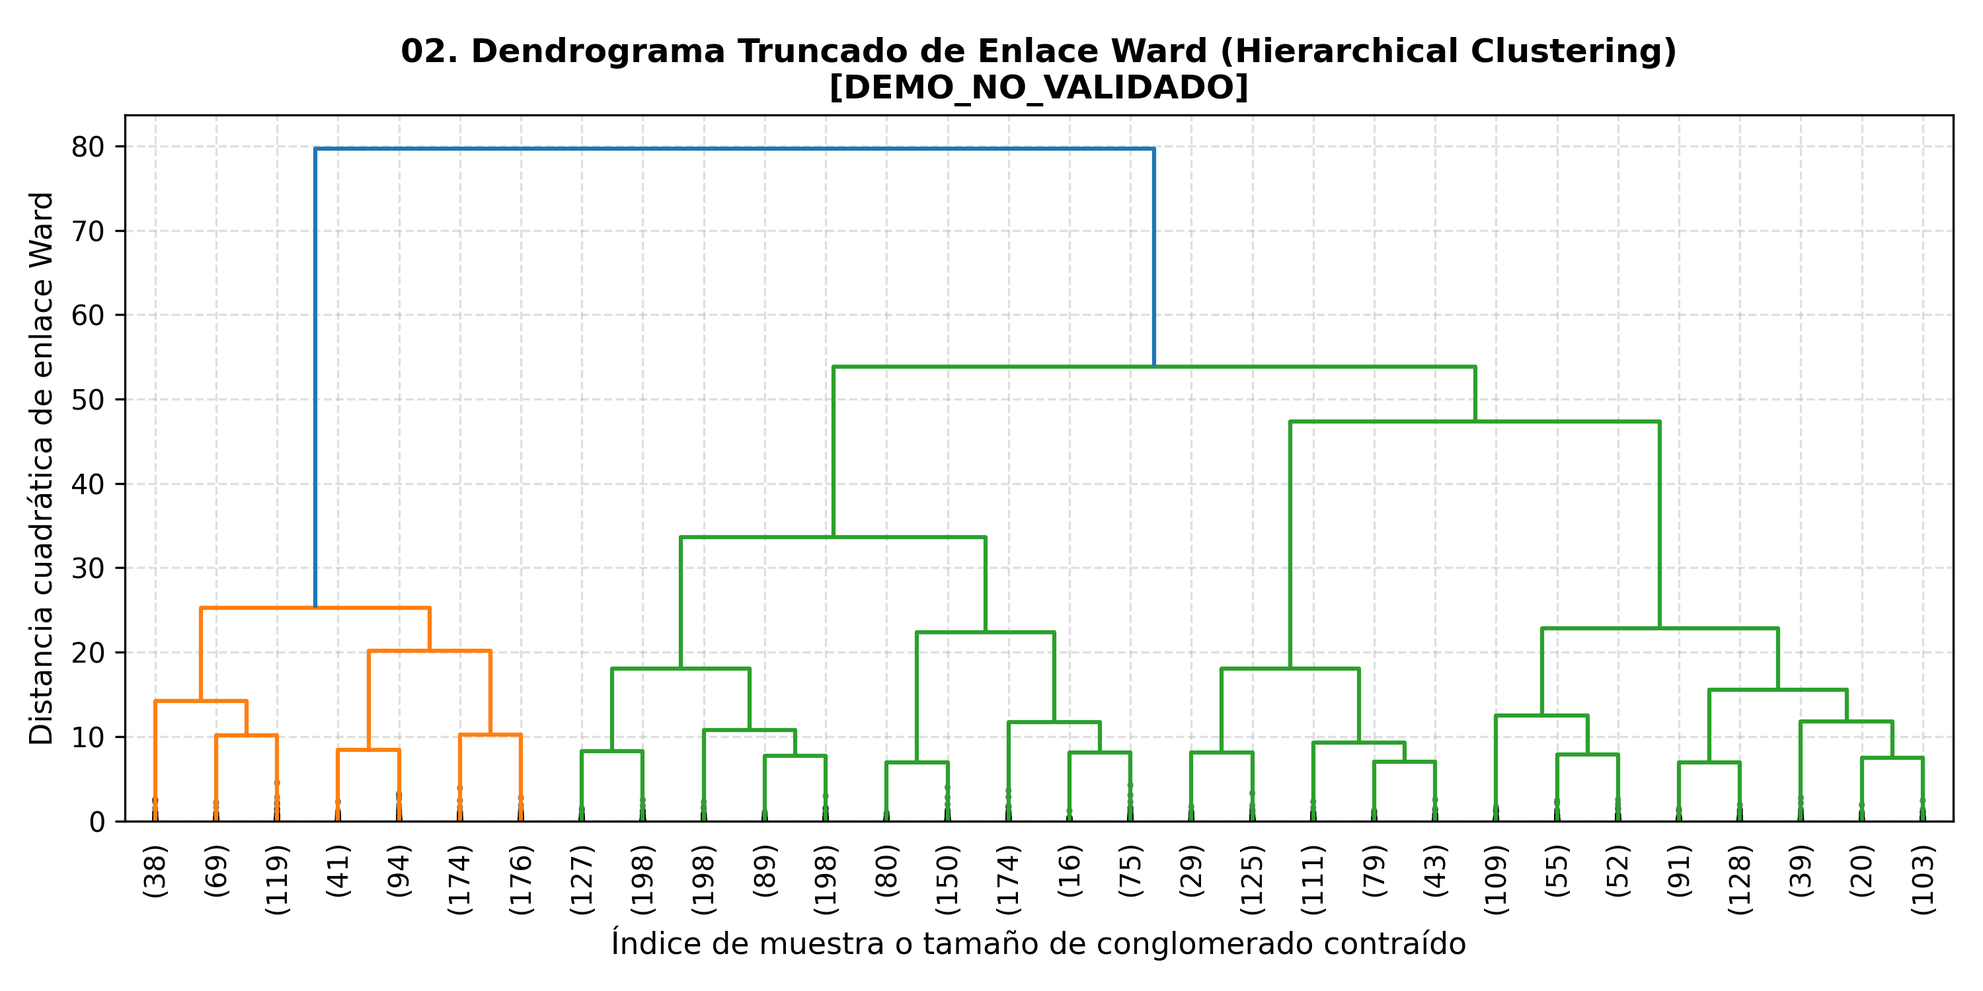
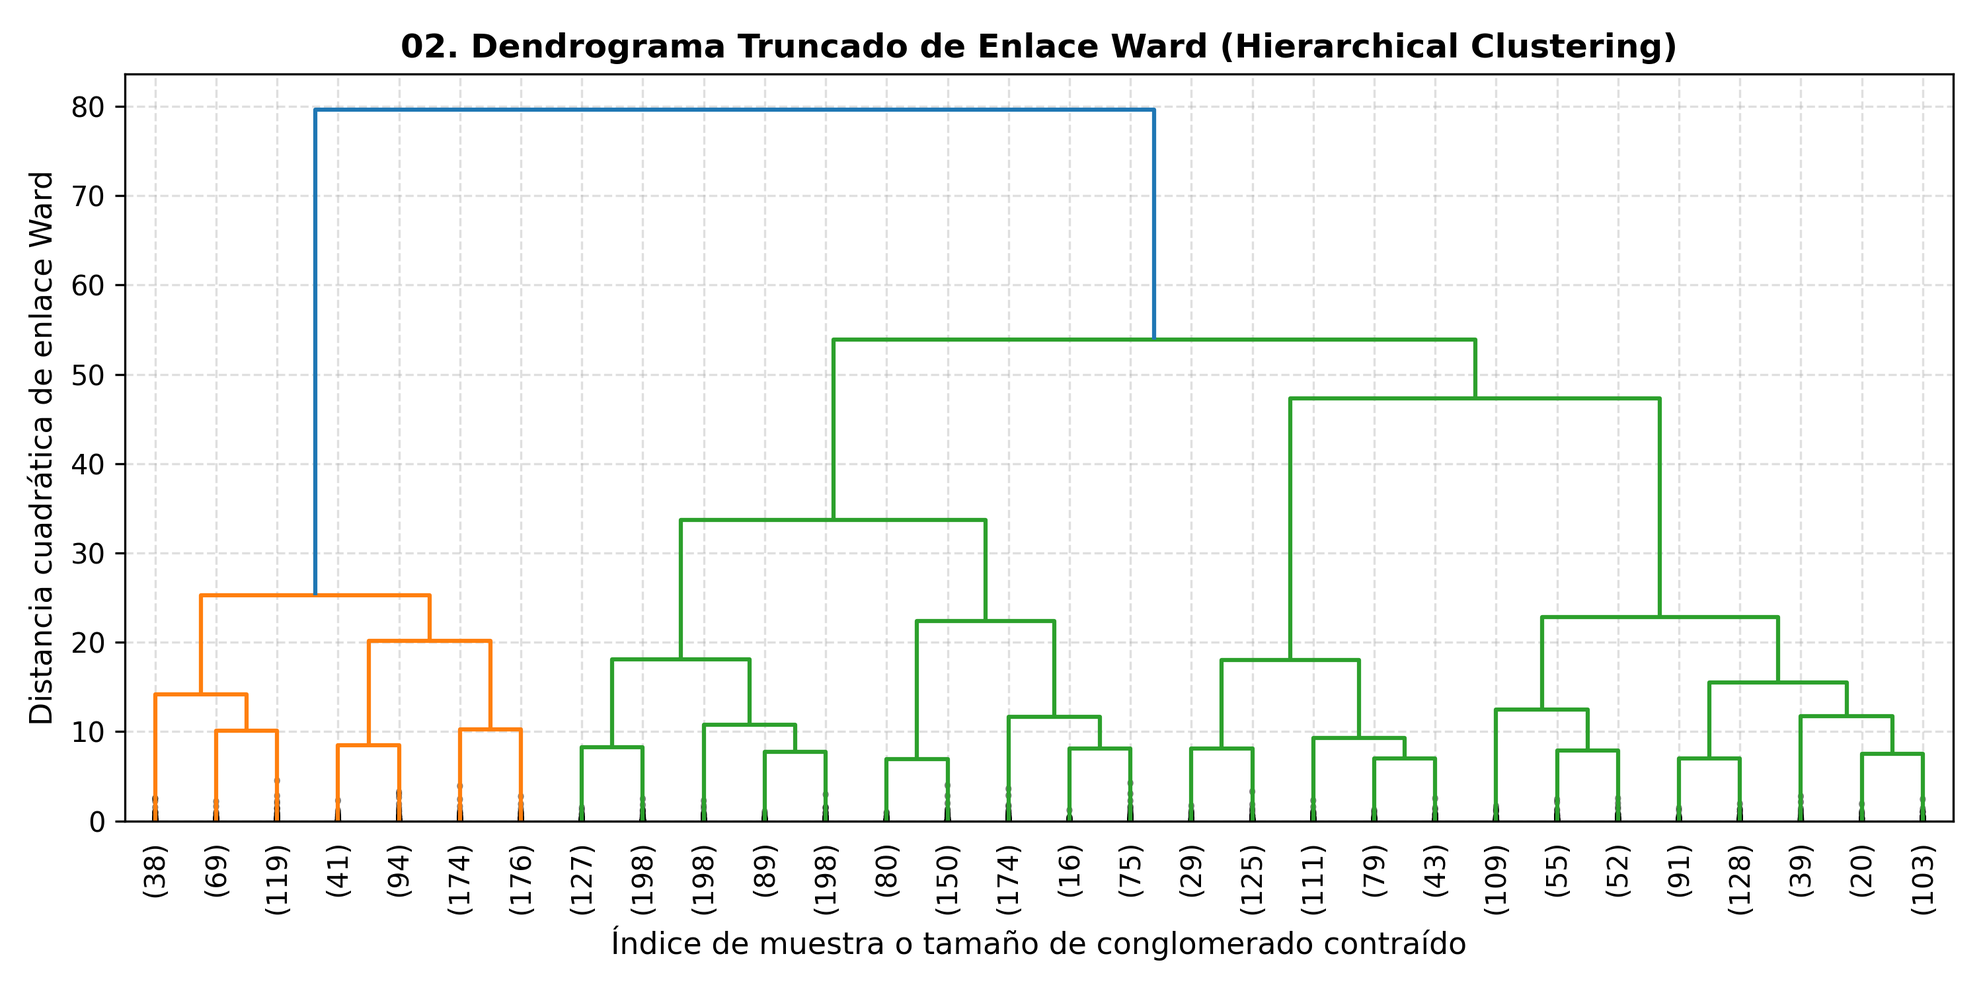
Correcciones menores

diff --git a/MonteCarlo_Clustering/scripts/clustering_escenarios.py b/MonteCarlo_Clustering/scripts/clustering_escenarios.py
@@ -7,7 +7,7 @@ Proyecto: montecarlo-inversion-demografica
 Segmenta los 10 000 escenarios estocasticos de la simulacion demografica
 en base a los factores de fecundidad, mortalidad y el anio de inversion.
 
-ESTADO DE LOS DATOS: DEMO_NO_VALIDADO.
+ESTADO DE LOS DATOS: PARAMETROS_CONFIGURADOS.
 Los resultados dependen de supuestos didacticos y no son un pronostico oficial.
 """
 
@@ -359,7 +359,7 @@ def main():
 
     print("================================================================================")
     print("MODULO DE CLUSTERING DEMOGRAFICO - SEMANA 13")
-    print("ESTADO: DEMO_NO_VALIDADO (Supuestos didacticos; no es pronostico oficial)")
+    print("ESTADO: PARAMETROS_CONFIGURADOS (Supuestos didacticos; no es pronostico oficial)")
     print(f"Carpeta entrada:  {carpeta_res}")
     print(f"Carpeta salida:   {carpeta_salida}")
     print(f"Carpeta graficos: {carpeta_graficos}")
@@ -708,7 +708,7 @@ def main():
     reglas_file_path = os.path.join(carpeta_salida, "reglas_arbol.txt")
     with open(reglas_file_path, "w", encoding="utf-8") as f:
         f.write("REGLAS DE DECISION EXPLICATIVAS (Surrogate Decision Tree)\n")
-        f.write("ESTADO: DEMO_NO_VALIDADO (Supuestos didacticos)\n")
+        f.write("ESTADO: PARAMETROS_CONFIGURADOS (Supuestos didacticos)\n")
         f.write(f"Objetivo: Explicar clusters de inversion demografica segun factores macro\n")
         f.write(f"Exactitud global del arbol (Accuracy): {acc_tree * 100:.2f} %\n")
         f.write("--------------------------------------------------------------------------------\n")
@@ -748,7 +748,7 @@ def main():
     ax2.plot(k_range, silhouettes_km, marker='s', color=color, linewidth=2, linestyle='--', label='Silhouette')
     ax2.tick_params(axis='y', labelcolor=color)
 
-    plt.title('01. Método del Codo y Coeficiente Silhouette (K-Means)\n[DEMO_NO_VALIDADO]', fontsize=12, fontweight='bold')
+    plt.title('01. Método del Codo y Coeficiente Silhouette (K-Means)', fontsize=12, fontweight='bold')
     fig.tight_layout()
     fig1_path = os.path.join(carpeta_graficos, "01_codo_silhouette_kmeans.png")
     plt.savefig(fig1_path, dpi=300)
@@ -764,7 +764,7 @@ def main():
         leaf_font_size=10.,
         show_contracted=True
     )
-    plt.title('02. Dendrograma Truncado de Enlace Ward (Hierarchical Clustering)\n[DEMO_NO_VALIDADO]', fontsize=12, fontweight='bold')
+    plt.title('02. Dendrograma Truncado de Enlace Ward (Hierarchical Clustering)', fontsize=12, fontweight='bold')
     plt.xlabel('Índice de muestra o tamaño de conglomerado contraído', fontsize=11)
     plt.ylabel('Distancia cuadrática de enlace Ward', fontsize=11)
     plt.grid(True, linestyle='--', alpha=0.4)
@@ -777,7 +777,7 @@ def main():
     plt.figure(figsize=(8, 5))
     plt.plot(range(len(k_distances)), k_distances, color='navy', linewidth=2)
     plt.axhline(y=eps_candidato, color='crimson', linestyle='--', label=f'eps elegido = {eps_candidato:.3f}')
-    plt.title(f'03. Gráfico de k-distancias ordenadas para DBSCAN (k={min_samples_db})\n[DEMO_NO_VALIDADO]', fontsize=12, fontweight='bold')
+    plt.title(f'03. Gráfico de k-distancias ordenadas para DBSCAN (k={min_samples_db})', fontsize=12, fontweight='bold')
     plt.xlabel('Puntos ordenados por distancia', fontsize=11)
     plt.ylabel(f'Distancia al {min_samples_db}-ésimo vecino', fontsize=11)
     plt.legend(loc='upper left')
@@ -806,7 +806,7 @@ def main():
     )
     plt.axvline(x=1.0, color='gray', linestyle=':', alpha=0.7)
     plt.axhline(y=1.0, color='gray', linestyle=':', alpha=0.7)
-    plt.title('04. Espacio de Factores Macro por Régimen de Inversión\n[DEMO_NO_VALIDADO]', fontsize=12, fontweight='bold')
+    plt.title('04. Espacio de Factores Macro por Régimen de Inversión', fontsize=12, fontweight='bold')
     plt.xlabel('Factor de Fecundidad (Línea base = 1.0, $\\sigma=0.05$)', fontsize=11)
     plt.ylabel('Factor de Mortalidad (Línea base = 1.0, $\\sigma=0.015$)', fontsize=11)
     plt.legend(loc='best', framealpha=0.9)
@@ -824,7 +824,7 @@ def main():
     for patch, col in zip(bp['boxes'], colores_c):
         patch.set_facecolor(col)
         patch.set_alpha(0.6)
-    plt.title('05. Distribución del Año de Inversión Demográfica por Cluster K-Means\n[DEMO_NO_VALIDADO]', fontsize=12, fontweight='bold')
+    plt.title('05. Distribución del Año de Inversión Demográfica por Cluster K-Means', fontsize=12, fontweight='bold')
     plt.ylabel('Año del cruce (A ≥ J)', fontsize=11)
     plt.grid(True, linestyle='--', alpha=0.5, axis='y')
     plt.tight_layout()
@@ -841,7 +841,7 @@ def main():
             c=colores_c[c % len(colores_c)], label=f"{nombres_dict[c]}",
             alpha=0.5, edgecolors='none', s=20
         )
-    plt.title(f'06. Proyección PCA de Escenarios Clusterizados\n(Varianza explicada: PC1={var_exp[0]*100:.1f}%, PC2={var_exp[1]*100:.1f}%) [DEMO_NO_VALIDADO]', fontsize=12, fontweight='bold')
+    plt.title(f'06. Proyección PCA de Escenarios Clusterizados\n(Varianza explicada: PC1={var_exp[0]*100:.1f}%, PC2={var_exp[1]*100:.1f}%)', fontsize=12, fontweight='bold')
     plt.xlabel('Componente Principal 1', fontsize=11)
     plt.ylabel('Componente Principal 2', fontsize=11)
     plt.legend(loc='best')
@@ -871,7 +871,7 @@ def main():
     ax_ch.set_title('Calinski-Harabasz (Mayor es mejor)', fontsize=10, fontweight='bold')
     ax_ch.grid(True, linestyle='--', alpha=0.4, axis='y')
 
-    plt.suptitle('07. Evaluación Comparativa de Calidad de Clustering\n[DEMO_NO_VALIDADO]', fontsize=12, fontweight='bold')
+    plt.suptitle('07. Evaluación Comparativa de Calidad de Clustering', fontsize=12, fontweight='bold')
     plt.tight_layout()
     fig7_path = os.path.join(carpeta_graficos, "07_comparativa_metricas_algoritmos.png")
     plt.savefig(fig7_path, dpi=300)
@@ -887,7 +887,7 @@ def main():
         rounded=True,
         fontsize=9
     )
-    plt.title('08. Árbol de Decisión Sustituto (Explicabilidad de Segmentos)\n[DEMO_NO_VALIDADO]', fontsize=13, fontweight='bold')
+    plt.title('08. Árbol de Decisión Sustituto (Explicabilidad de Segmentos)', fontsize=13, fontweight='bold')
     plt.tight_layout()
     fig8_path = os.path.join(carpeta_graficos, "08_arbol_decision_reglas.png")
     plt.savefig(fig8_path, dpi=300)
@@ -899,7 +899,7 @@ def main():
     resumen_path = os.path.join(carpeta_salida, "resumen_clustering.txt")
     with open(resumen_path, "w", encoding="utf-8") as f:
         f.write("================================================================================\n")
-        f.write("ESTADO: DEMO_NO_VALIDADO\n")
+        f.write("ESTADO: PARAMETROS_CONFIGURADOS\n")
         f.write("Ejecucion ilustrativa del modulo de Clustering (Semana 13).\n")
         f.write("Los resultados dependen de supuestos didacticos (sigma_fec=0.05, sigma_mort=0.015)\n")
         f.write("y NO constituyen un pronostico demografico oficial para el Peru.\n")

diff --git a/MonteCarlo_Secuencial/interfaz.py b/MonteCarlo_Secuencial/interfaz.py
@@ -18,6 +18,7 @@ import csv
 import math
 import os
 import queue
+import shlex
 import subprocess
 import sys
 import threading
@@ -93,6 +94,8 @@ class InterfazMonteCarlo(tk.Tk):
         self.resultados: list[dict[str, str]] = []
         self.intervalos: list[tuple[int, int, int, float]] = []
         self.carpeta_actual: Path | None = None
+        self.version_actual = ""
+        self.escenarios_actual = 0
         self.proceso: subprocess.Popen[str] | None = None
         self.cola: queue.Queue[tuple[str, object]] = queue.Queue()
 
@@ -151,7 +154,7 @@ class InterfazMonteCarlo(tk.Tk):
         badge_frame.pack(side="right", padx=10)
         tk.Label(
             badge_frame,
-            text="ESTADO: DEMO_NO_VALIDADO",
+            text="SIMULACIÓN DEMOGRÁFICA",
             bg="#FFF3E0",
             fg="#E65100",
             font=("Segoe UI Semibold", 9),
@@ -271,7 +274,7 @@ class InterfazMonteCarlo(tk.Tk):
         tk.Label(principal, textvariable=self.intervalos_var, bg="#E1F5FE", fg=TEXTO, anchor="w", padx=10, pady=5, font=("Segoe UI", 8)).pack(fill="x", pady=(2, 6))
 
         # Tarjetas de metricas inferiores
-        tarjetas = ttk.Frame(padre, padding=(10, 0, 10, 10))
+        tarjetas = ttk.Frame(principal, padding=(0, 0, 0, 6))
         tarjetas.pack(fill="x")
         nombres = ["Escenarios", "Tiempo total", "ms / escenario", "Rendimiento", "CPU / pared", "RSS pico"]
         self.metricas_vars: dict[str, tk.StringVar] = {}
@@ -444,16 +447,6 @@ class InterfazMonteCarlo(tk.Tk):
         cont.bind("<Configure>", lambda _e: lienzo_s.configure(scrollregion=lienzo_s.bbox("all")))
         lienzo_s.bind("<Configure>", lambda e: lienzo_s.itemconfigure(ventana_s, width=e.width))
 
-        # Tarjeta de estado de los datos
-        t_alerta = tk.Frame(cont, bg="#FFF8E1", bd=1, relief="solid", padx=14, pady=10)
-        t_alerta.pack(fill="x", pady=(0, 12))
-        tk.Label(t_alerta, text="⚠ ESTADO DE LOS DATOS: DEMO_NO_VALIDADO", bg="#FFF8E1", fg="#E65100", font=("Segoe UI Semibold", 11)).pack(anchor="w")
-        tk.Label(
-            t_alerta,
-            text="Los resultados corresponden a supuestos de laboratorio didácticos (sigma_fecundidad=0.05, sigma_mortalidad=0.015) "
-                 "sobre un horizonte de 40 años (2025–2065). No constituyen una predicción oficial del INEI ni de la ONU.",
-            bg="#FFF8E1", fg=TEXTO, font=("Segoe UI", 9), wraplength=950, justify="left"
-        ).pack(anchor="w", pady=(3, 0))
 
         # Tarjeta de Cronograma Scrum
         t_scrum = ttk.Frame(cont, style="Card.TFrame", padding=14)
@@ -546,9 +539,12 @@ class InterfazMonteCarlo(tk.Tk):
             messagebox.showerror("Configuración", f"No existe {config.name}.")
             return
 
-        slug = motor.replace(" ", "_").replace("+", "p").replace("(", "").replace(")", "").replace("í", "i")
-        marca = datetime.now().strftime("%Y%m%d_%H%M%S")
-        salida_rel = Path("resultados_interfaz") / f"sim_{slug}_{escenarios}_{marca}"
+        codigos = {
+            "C++ Secuencial": "sec", "C++ OpenMP": "omp", "C++ MPI": "mpi",
+            "C++ Híbrido (MPI+OpenMP)": "hib", "Go": "go",
+        }
+        marca = datetime.now().strftime("%m%d_%H%M%S_%f")[:18]
+        salida_rel = Path("resultados_interfaz") / f"r_{codigos.get(motor, 'sim')}_{escenarios}_{marca}"
 
         if motor == "Go":
             ejecutable = GO_BASE / "simulador_go.exe" if sys.platform == "win32" else GO_BASE / "simulador_go"
@@ -575,20 +571,24 @@ class InterfazMonteCarlo(tk.Tk):
             datos_wsl = f"../MonteCarlo_Secuencial/datos"
             salida_wsl = ruta_a_wsl(salida)
             paralelo_wsl = ruta_a_wsl(PARALELO_BASE)
+            cd_wsl = shlex.quote(paralelo_wsl)
+            salida_wsl_q = shlex.quote(salida_wsl)
 
             if motor == "C++ OpenMP":
-                cmd_wsl = f"cd {paralelo_wsl} && ./simulador_omp --config {cfg_wsl} --datos {datos_wsl} --salida {salida_wsl} --escenarios {escenarios} --hilos 8"
+                cmd_wsl = f"cd {cd_wsl} && ./simulador_omp --config {cfg_wsl} --datos {datos_wsl} --salida {salida_wsl_q} --escenarios {escenarios} --hilos 8"
             elif motor == "C++ MPI":
-                cmd_wsl = f"cd {paralelo_wsl} && mpirun --oversubscribe -np 4 ./simulador_mpi --config {cfg_wsl} --datos {datos_wsl} --salida {salida_wsl} --escenarios {escenarios}"
+                cmd_wsl = f"cd {cd_wsl} && mpirun --oversubscribe -np 4 ./simulador_mpi --config {cfg_wsl} --datos {datos_wsl} --salida {salida_wsl_q} --escenarios {escenarios}"
             elif motor == "C++ Híbrido (MPI+OpenMP)":
-                cmd_wsl = f"cd {paralelo_wsl} && mpirun --oversubscribe -np 2 ./simulador_hibrido --config {cfg_wsl} --datos {datos_wsl} --salida {salida_wsl} --escenarios {escenarios} --hilos 4"
+                cmd_wsl = f"cd {cd_wsl} && mpirun --oversubscribe -np 2 ./simulador_hibrido --config {cfg_wsl} --datos {datos_wsl} --salida {salida_wsl_q} --escenarios {escenarios} --hilos 4"
             else:
                 messagebox.showerror("Error", f"Motor desconocido: {motor}")
                 return
 
             # En Windows se invoca a traves de WSL de forma completamente transparente
             if sys.platform == "win32":
-                comando = ["wsl", "bash", "-c", cmd_wsl]
+                # Ubuntu contiene g++, OpenMP y OpenMPI. No se usa la distro
+                # predeterminada porque Docker Desktop puede ocupar ese lugar.
+                comando = ["wsl", "-d", "Ubuntu", "--", "bash", "-lc", cmd_wsl]
             else:
                 comando = ["bash", "-c", cmd_wsl]
             cwd = BASE
@@ -649,6 +649,8 @@ class InterfazMonteCarlo(tk.Tk):
 
         self.carpeta_actual = carpeta
         escenarios = int(float(m["escenarios"]))
+        self.escenarios_actual = escenarios
+        self.version_actual = m.get("version", carpeta.name)
         total = float(m["segundos_total"])
         cpu = float(m["segundos_cpu"])
 
@@ -723,6 +725,10 @@ class InterfazMonteCarlo(tk.Tk):
             self.eje.set_ylim(-0.002, max_y * 1.25)
 
         self.eje.set_xlabel("Primer año de inversión T (A ≥ J)", color=TEXTO, fontsize=9)
+        contexto = self.version_actual or "resultados cargados"
+        if self.escenarios_actual:
+            contexto += f" · {self.escenarios_actual:,} escenarios".replace(",", " ")
+        self.eje.set_title(contexto, color=GRIS, fontsize=9, loc="left", pad=8)
         self.figura.tight_layout()
         self.canvas.draw_idle()
 

diff --git a/MonteCarlo_Clustering/scripts/clustering_edades.py b/MonteCarlo_Clustering/scripts/clustering_edades.py
@@ -9,7 +9,7 @@ mortalidad (q por sexo), fecundidad especifica y proporcion poblacional.
 Evalua si los conglomerados naturales reproducen los cortes oficiales de
 J (<15) y A (>=65).
 
-ESTADO DE LOS DATOS: DEMO_NO_VALIDADO.
+ESTADO DE LOS DATOS: PARAMETROS_CONFIGURADOS.
 """
 
 import sys
@@ -154,7 +154,7 @@ def main():
 
     print("================================================================================")
     print("CLUSTERING DE EDADES SIMPLES DEMOGRAFICAS (Parte B - S13)")
-    print("ESTADO: DEMO_NO_VALIDADO")
+    print("ESTADO: PARAMETROS_CONFIGURADOS")
     print(f"Carpeta entrada:  {carpeta_datos}")
     print(f"Carpeta salida:   {carpeta_salida}")
     print(f"Carpeta graficos: {carpeta_graficos}")
@@ -292,7 +292,7 @@ def main():
     ax4.legend(loc="upper left", fontsize=8)
     ax4.grid(True, linestyle="--", alpha=0.5)
 
-    plt.suptitle("01. Perfiles Demográficos y Asignación de Conglomerados por Edad\n[DEMO_NO_VALIDADO]", fontsize=12, fontweight='bold')
+    plt.suptitle("01. Perfiles Demográficos y Asignación de Conglomerados por Edad", fontsize=12, fontweight='bold')
     plt.tight_layout()
     plt.savefig(os.path.join(carpeta_graficos, "01_perfiles_demograficos_edad.png"), dpi=300)
     plt.close()
@@ -300,7 +300,7 @@ def main():
     # Fig 02: Dendrograma
     plt.figure(figsize=(10, 5))
     dendrogram(Z, labels=df["edad_num"].values, leaf_rotation=90., leaf_font_size=6.)
-    plt.title("02. Dendrograma Jerárquico de Edades Simples (Ward)\n[DEMO_NO_VALIDADO]", fontsize=12, fontweight='bold')
+    plt.title("02. Dendrograma Jerárquico de Edades Simples (Ward)", fontsize=12, fontweight='bold')
     plt.xlabel("Edad Simple (0 a 100)")
     plt.ylabel("Distancia de enlace Ward")
     plt.tight_layout()
@@ -317,7 +317,7 @@ def main():
     plt.scatter(edades, y_kmeans, marker='o', s=30, label="Clusters K-Means Hallados", alpha=0.8)
     plt.axvline(x=15, color='gray', linestyle='--', label='Corte Oficial 15 años')
     plt.axvline(x=65, color='black', linestyle=':', label='Corte Oficial 65 años')
-    plt.title(f"03. Comparación entre Partición Oficial y Grupos Naturales (ARI = {ari_km:.4f})\n[DEMO_NO_VALIDADO]", fontsize=11, fontweight='bold')
+    plt.title(f"03. Comparación entre Partición Oficial y Grupos Naturales (ARI = {ari_km:.4f})", fontsize=11, fontweight='bold')
     plt.xlabel("Edad Simple")
     plt.yticks([0, 1, 2], ["Grupo 0", "Grupo 1", "Grupo 2"])
     plt.legend(loc="center right", fontsize=9)
@@ -330,7 +330,7 @@ def main():
     resumen_path = os.path.join(carpeta_salida, "resumen_clustering_edades.txt")
     with open(resumen_path, "w", encoding="utf-8") as f:
         f.write("================================================================================\n")
-        f.write("ESTADO: DEMO_NO_VALIDADO\n")
+        f.write("ESTADO: PARAMETROS_CONFIGURADOS\n")
         f.write("Clustering de Edades Simples (Parte B - Semana 13)\n")
         f.write("================================================================================\n\n")
         f.write("1. EVALUACION DE CONCORDANCIA CON CORTES OFICIALES:\n")

diff --git a/MonteCarlo_Secuencial/src/salida.cpp b/MonteCarlo_Secuencial/src/salida.cpp
@@ -90,8 +90,8 @@ void escribir_resultados(const fs::path& salida, const Configuracion& c, const P
     // ---------------- Resumen ----------------
     std::ofstream res(salida / "resumen.txt");
     res << std::setprecision(12) << "ESTADO: " << c.estado_datos << "\n";
-    if (c.estado_datos == "DEMO_NO_VALIDADO")
-        res << "Ejecucion ilustrativa con supuestos no confirmados. No es una prediccion validada del Peru.\n";
+    if (c.estado_datos == "PARAMETROS_CONFIGURADOS")
+        res << "Resultados de uso academico basados en los parametros configurados.\n";
     res << "Version: " << version_texto << "\n"
         << "Poblacion inicial: " << poblacion_total(N0) << "\nMenores de 15: " << menores_15(N0)
         << "\n65 o mas: " << mayores_65(N0) << "\nEscenarios completados: " << c.escenarios

diff --git a/MonteCarlo_Secuencial/src/configuracion.hpp b/MonteCarlo_Secuencial/src/configuracion.hpp
@@ -13,7 +13,7 @@ struct Configuracion {
     int horizonte = 0;              // numero de pasos anuales a simular
     Conteo escenarios = 0;          // R: numero de trayectorias Monte Carlo
     std::uint64_t semilla = 0;      // semilla maestra
-    std::string estado_datos;       // DEMO_NO_VALIDADO o PARAMETROS_DOCUMENTADOS
+    std::string estado_datos;       // PARAMETROS_CONFIGURADOS o PARAMETROS_DOCUMENTADOS
     std::string tipo_mortalidad;    // como interpretar mortalidad_peru.csv
     double p_femenino = 0.0;        // pF: proporcion femenina al nacer
     double u_recien_nacido[2] = {0.0, 0.0};  // u[s]: supervivencia de nacidos hasta el cierre del anio

diff --git a/MonteCarlo_Secuencial/src/configuracion.cpp b/MonteCarlo_Secuencial/src/configuracion.cpp
@@ -66,7 +66,7 @@ Configuracion leer_configuracion(const std::filesystem::path& archivo) {
     }
     c.archivo = archivo;
 
-    exigir(c.estado_datos == "DEMO_NO_VALIDADO" || c.estado_datos == "PARAMETROS_DOCUMENTADOS",
+    exigir(c.estado_datos == "PARAMETROS_CONFIGURADOS" || c.estado_datos == "PARAMETROS_DOCUMENTADOS",
            "estado_datos no reconocido");
     exigir(c.tipo_mortalidad == "supervivencia_intervalo" || c.tipo_mortalidad == "supervivencia_anual" ||
                c.tipo_mortalidad == "muerte_anual",

diff --git a/docs/03_validacion_linea_base.md b/docs/03_validacion_linea_base.md
@@ -30,7 +30,7 @@ Es compatible con una Poisson bien muestreada.
 - Con incertidumbre macro (σ_f = 0,05 y σ_m = 0,015) aparece una distribución unimodal centrada en 2054.
 - El aviso de V1 (cohorte 0–4 menor de lo que implica la fecundidad) produce un repunte de menores de 15 hacia 2036–2040. Es un efecto conocido de los datos, no del código.
 
-**Pendiente (fuera del alcance del código):** contrastar 2054 con la proyección oficial (INEI / CELADE / ONU WPP) y calibrar σ_f y σ_m con la dispersión entre sus variantes alta, media y baja. Mientras tanto, los resultados conservan el estado `DEMO_NO_VALIDADO`.
+**Pendiente (fuera del alcance del código):** contrastar 2054 con la proyección oficial (INEI / CELADE / ONU WPP) y calibrar σ_f y σ_m con la dispersión entre sus variantes alta, media y baja. Mientras tanto, los resultados conservan el estado `PARAMETROS_CONFIGURADOS`.
 
 ## 3. Convergencia Monte Carlo
 

diff --git a/docs/02_diseno_modelo_probabilistico.md b/docs/02_diseno_modelo_probabilistico.md
@@ -62,7 +62,7 @@ Error Monte Carlo: el error estándar de F̂(y) es √(F̂(1 − F̂)/R) y el de
 
 Cada escenario cuesta lo mismo, porque siempre se simula el horizonte completo aunque la inversión ya haya ocurrido: por año hay 1 Poisson, 1 binomial de sexo, 202 binomiales de muerte y 2 de supervivencia de nacidos, es decir 206 sorteos; en H = 40 años son ≈ 8 240 sorteos. El costo total es O(R · H) y la memoria es O(1) por escenario en la versión secuencial. Con costo uniforme por escenario, un reparto estático por bloques queda balanceado (MPI).
 
-## 7. Supuestos (estado `DEMO_NO_VALIDADO`)
+## 7. Supuestos (estado `PARAMETROS_CONFIGURADOS`)
 
 | Supuesto | Valor | Fuente / estado |
 |---|---|---|

diff --git a/README.md b/README.md
@@ -2,7 +2,7 @@
 
 Proyecto del curso Programación Paralela y Concurrente. Abordamos la paralelización de una simulación Monte Carlo de la inversión demográfica del Perú: el año en que la población de 65 o más años (A) supera a la de menores de 15 (J).
 
-**Estado de los datos: DEMO_NO_VALIDADO.** Falta la ficha técnica de los CSV y la confirmación de algunos supuestos. Los resultados dependen de esos supuestos y no son un pronóstico oficial.
+**Estado de los datos: PARAMETROS_CONFIGURADOS.** Falta la ficha técnica de los CSV y la confirmación de algunos supuestos. Los resultados dependen de esos supuestos y no son un pronóstico oficial.
 
 ## Contenido
 

diff --git a/docs/06_clustering.md b/docs/06_clustering.md
@@ -3,7 +3,7 @@
 **Módulo:** Modelamiento Avanzado — Clustering (Semana 13)  
 **Curso:** Programación Paralela y Concurrente / Minería de Datos  
 **Repositorio:** `montecarlo-inversion-demografica`  
-**Estado de los datos:** `DEMO_NO_VALIDADO` (Los resultados dependen de supuestos didácticos y no constituyen un pronóstico demográfico oficial del Perú).
+**Estado de los datos:** `PARAMETROS_CONFIGURADOS` (Los resultados dependen de supuestos didácticos y no constituyen un pronóstico demográfico oficial del Perú).
 
 ---
 
